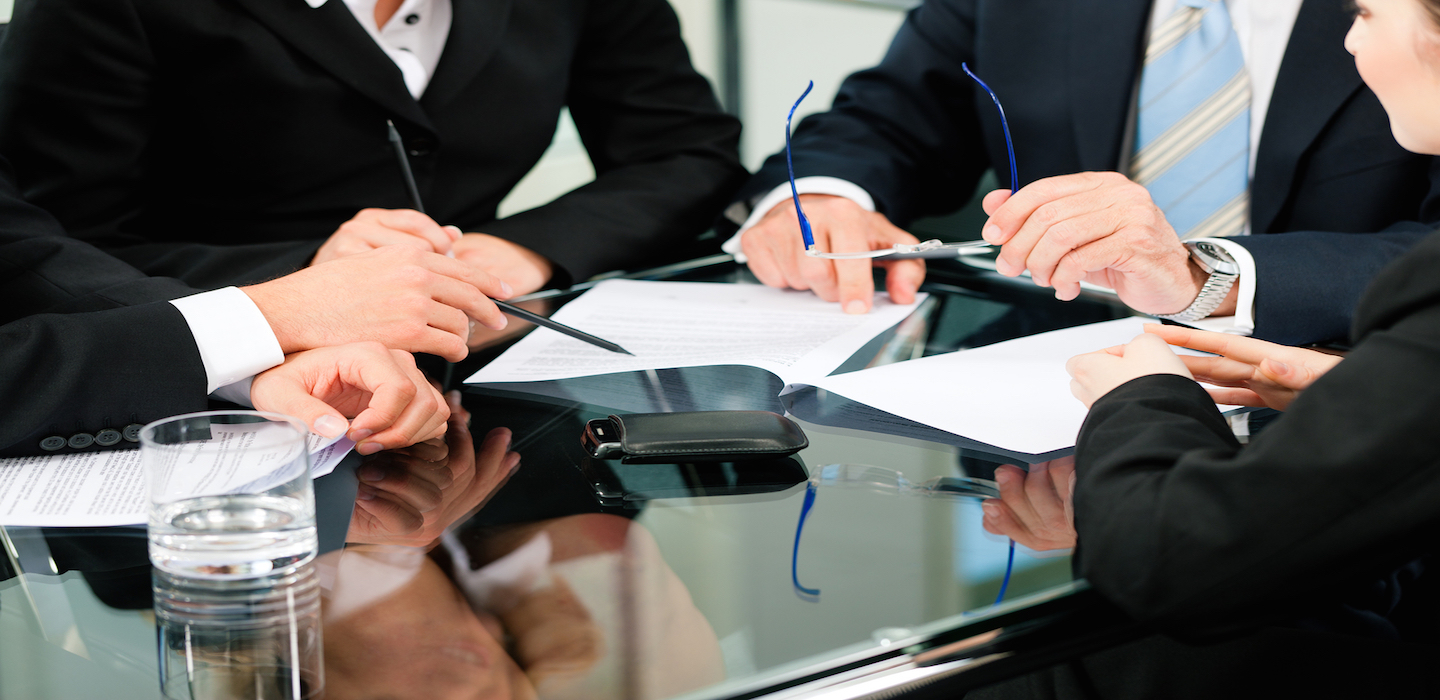
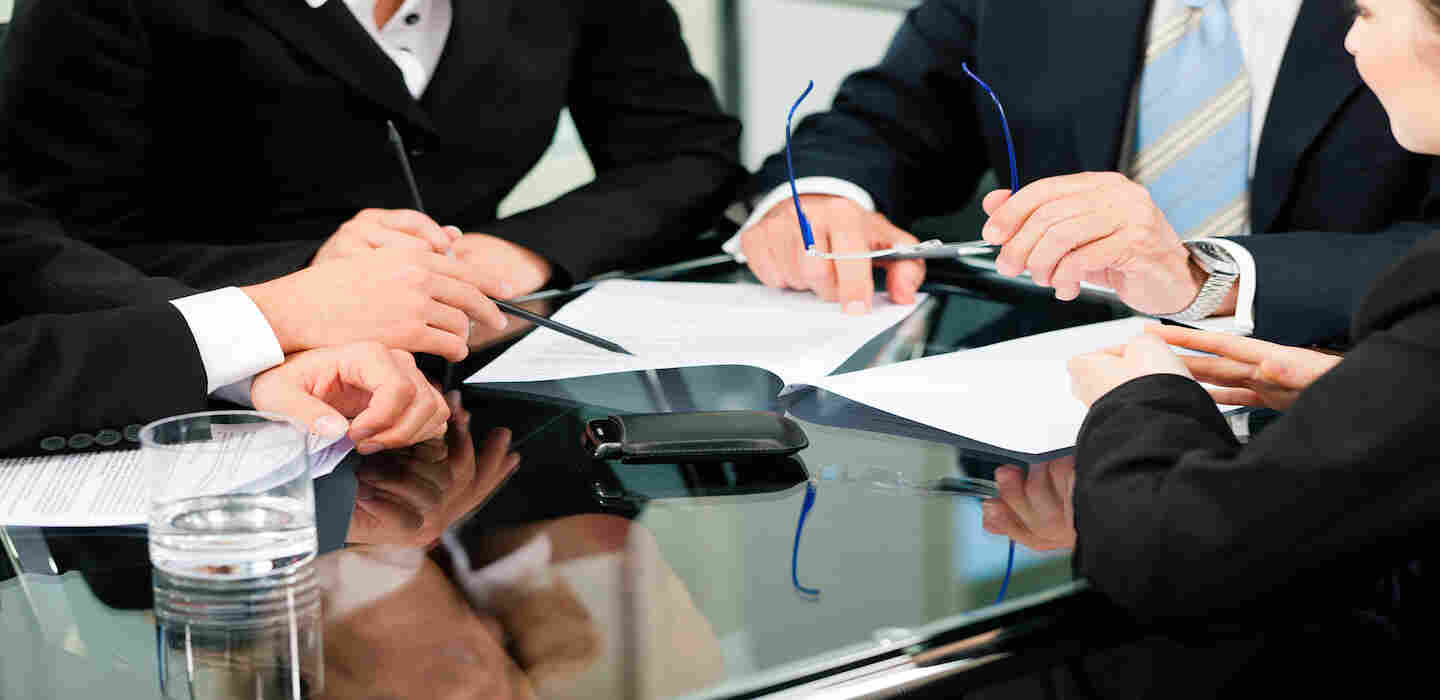
filled and fixed slider

diff --git a/src/components/sliderSection/sliderSection.js b/src/components/sliderSection/sliderSection.js
@@ -49,7 +49,7 @@ const SliderSection = () => {
   const slides = [
     {
       style: {
-        backgroundImage: "url(./assets/photo.jpeg)",
+        backgroundImage: "url(./assets/legal.jpg)",
       },
       // warning!!! shit code
       contentText: {
@@ -64,7 +64,7 @@ const SliderSection = () => {
     },
     {
       style: {
-        backgroundImage: "url(./assets/photo.jpeg)",
+        backgroundImage: "url(./assets/legal2.jpg)",
       },
       contentText: {
         headerText: [
@@ -78,7 +78,7 @@ const SliderSection = () => {
     },
     {
       style: {
-        backgroundImage: "url(./assets/photo.jpeg)",
+        backgroundImage: "url(./assets/legal3.jpg)",
       },
       contentText: {
         headerText: [
@@ -115,8 +115,10 @@ const SliderSection = () => {
       {slides.map((slide, id) => {
         return (
           <div key={id} className="slide">
-            <div className="slide-shadow">
-              <SlideContent {...slide.contentText}></SlideContent>
+            <div className="slideBackground" style={slide.style}>
+              <div className="slideShadow">
+                <SlideContent {...slide.contentText}></SlideContent>
+              </div>
             </div>
           </div>
         );

diff --git a/src/components/sliderSection/sliderSection.scss b/src/components/sliderSection/sliderSection.scss
@@ -7,24 +7,24 @@
 
   .slide {
     position: relative;
-    background-image: url(https://www.industrialempathy.com/img/remote/ZiClJf-1920w.jpg);
-    background-position: center;
-    background-size: cover;
-    background-repeat: no-repeat;
+    // background-image: url(https://www.industrialempathy.com/img/remote/ZiClJf-1920w.jpg);
 
     height: 400px;
-    .slide-shadow {
+    .slideBackground {
+      width: 100%;
+      height: 100%;
+      background-position: center;
+      background-size: cover;
+      background-repeat: no-repeat;
+    }
+    .slideShadow {
       backdrop-filter: blur(3px);
       display: flex;
       justify-content: center;
       align-items: center;
-      position: absolute;
-      top: 0;
-      left: 0;
+      background-color: $halfWhite;
       width: 100%;
       height: 100%;
-      background-color: $halfWhite;
-      border-bottom: 2px solid $baseGreen;
     }
   }
 

diff --git a/dist/sliderSection.css b/dist/sliderSection.css
@@ -6,25 +6,25 @@
 
 .slick-slider .slide {
   position: relative;
-  background-image: url(https://www.industrialempathy.com/img/remote/ZiClJf-1920w.jpg);
-  background-position: center;
-  background-size: cover;
-  background-repeat: no-repeat;
   height: 400px;
 }
 
-.slick-slider .slide .slide-shadow {
+.slick-slider .slide .slideBackground {
+  width: 100%;
+  height: 100%;
+  background-position: center;
+  background-size: cover;
+  background-repeat: no-repeat;
+}
+
+.slick-slider .slide .slideShadow {
   backdrop-filter: blur(3px);
   display: flex;
   justify-content: center;
   align-items: center;
-  position: absolute;
-  top: 0;
-  left: 0;
+  background-color: rgba(255, 255, 255, 0.5);
   width: 100%;
   height: 100%;
-  background-color: rgba(255, 255, 255, 0.5);
-  border-bottom: 2px solid #6c8367;
 }
 
 .slick-slider .slick-dots {

diff --git a/src/components/aboutSection/aboutSection.js b/src/components/aboutSection/aboutSection.js
@@ -64,7 +64,7 @@ const AboutSection = () => {
           </ul>
           <div
             className="photo"
-            style={{ backgroundImage: "url(./assets/photo.jpeg)" }}
+            style={{ backgroundImage: "url(./assets/photo.jpg)" }}
           ></div>
         </div>
       </div>
